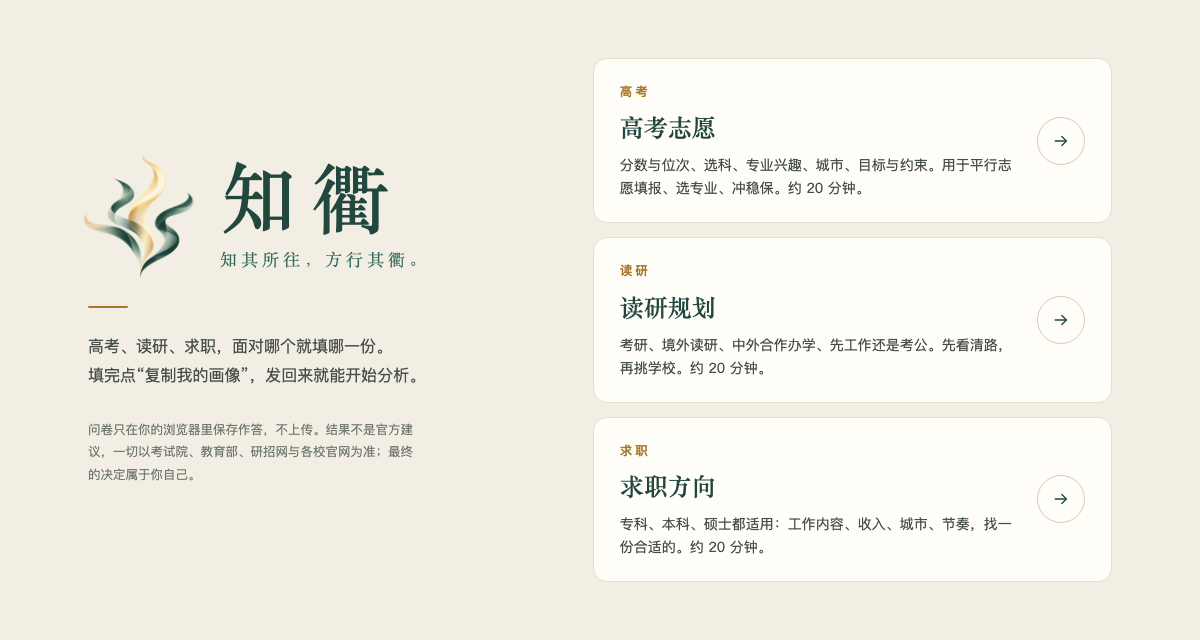
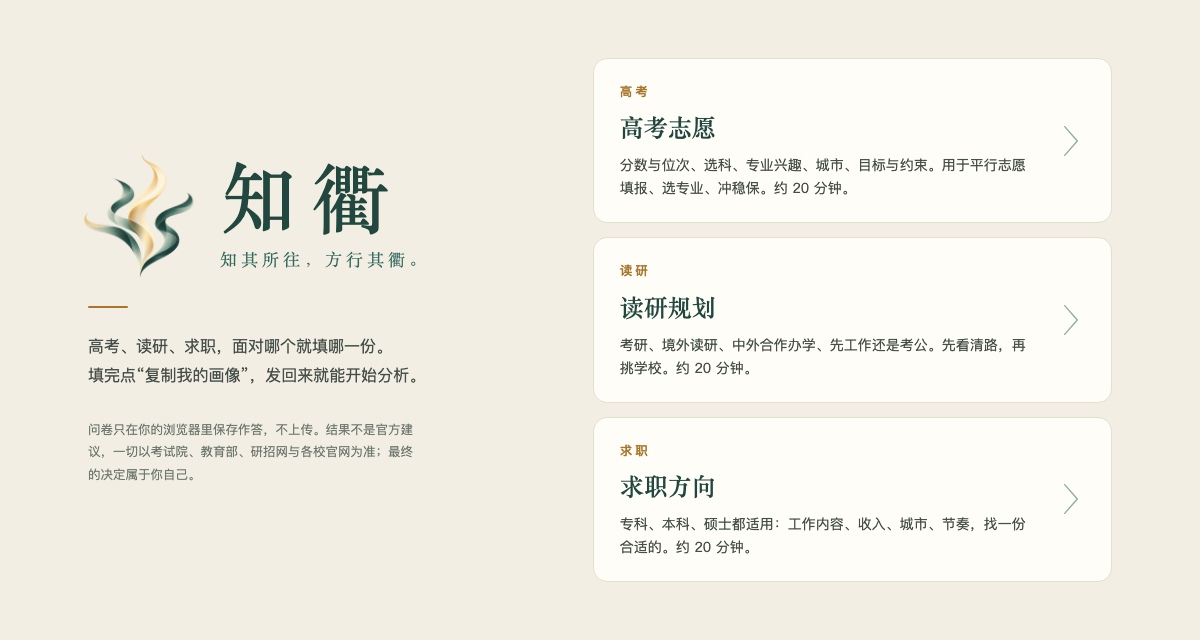
Entry page: thin tall chevron instead of the circled arrow

diff --git a/index.html b/index.html
@@ -5,7 +5,7 @@
 <meta name="viewport" content="width=device-width, initial-scale=1.0">
 <title>知衢 · 升学自我盘点</title>
 <link rel="icon" type="image/png" href="assets/logo-192.png">
-<link rel="stylesheet" href="assets/questionnaire.css?v=20261019k">
+<link rel="stylesheet" href="assets/questionnaire.css?v=20261019l">
 </head>
 <body class="landing">
 
@@ -29,19 +29,19 @@
       <p class="c-eyebrow">高考</p>
       <h2>高考志愿</h2>
       <p>分数与位次、选科、专业兴趣、城市、目标与约束。用于平行志愿填报、选专业、冲稳保。约 20 分钟。</p>
-      <span class="c-go" aria-hidden="true"><svg viewBox="0 0 24 24" width="20" height="20" fill="none" stroke="currentColor" stroke-width="1.6" stroke-linecap="round" stroke-linejoin="round"><path d="M5 12h13"/><path d="M13 6.5 18.5 12 13 17.5"/></svg></span><span class="sr-only">进入问卷</span>
+      <span class="c-go" aria-hidden="true"><svg viewBox="0 0 24 40" width="22" height="36" fill="none" stroke="currentColor" stroke-width="1.5" stroke-linecap="round" stroke-linejoin="round"><path d="M5 4 L19 20 L5 36"/></svg></span><span class="sr-only">进入问卷</span>
     </a>
     <a class="choice" href="grad.html">
       <p class="c-eyebrow">读研</p>
       <h2>读研规划</h2>
       <p>考研、境外读研、中外合作办学、先工作还是考公。先看清路，再挑学校。约 20 分钟。</p>
-      <span class="c-go" aria-hidden="true"><svg viewBox="0 0 24 24" width="20" height="20" fill="none" stroke="currentColor" stroke-width="1.6" stroke-linecap="round" stroke-linejoin="round"><path d="M5 12h13"/><path d="M13 6.5 18.5 12 13 17.5"/></svg></span><span class="sr-only">进入问卷</span>
+      <span class="c-go" aria-hidden="true"><svg viewBox="0 0 24 40" width="22" height="36" fill="none" stroke="currentColor" stroke-width="1.5" stroke-linecap="round" stroke-linejoin="round"><path d="M5 4 L19 20 L5 36"/></svg></span><span class="sr-only">进入问卷</span>
     </a>
     <a class="choice" href="career.html">
       <p class="c-eyebrow">求职</p>
       <h2>求职方向</h2>
       <p>专科、本科、硕士都适用：工作内容、收入、城市、节奏，找一份合适的。约 20 分钟。</p>
-      <span class="c-go" aria-hidden="true"><svg viewBox="0 0 24 24" width="20" height="20" fill="none" stroke="currentColor" stroke-width="1.6" stroke-linecap="round" stroke-linejoin="round"><path d="M5 12h13"/><path d="M13 6.5 18.5 12 13 17.5"/></svg></span><span class="sr-only">进入问卷</span>
+      <span class="c-go" aria-hidden="true"><svg viewBox="0 0 24 40" width="22" height="36" fill="none" stroke="currentColor" stroke-width="1.5" stroke-linecap="round" stroke-linejoin="round"><path d="M5 4 L19 20 L5 36"/></svg></span><span class="sr-only">进入问卷</span>
     </a>
   </div>
   </div>

diff --git a/assets/questionnaire.css b/assets/questionnaire.css
@@ -147,8 +147,9 @@ textarea{resize:vertical;min-height:84px;}
 .choice .c-eyebrow{font-size:12.5px;letter-spacing:3px;font-weight:600;color:var(--amber);margin:0 0 8px;}
 .choice h2{font-family:var(--serif);font-size:25px;margin:0 0 10px;color:var(--green-deep);}
 .choice p{margin:0 0 18px;font-size:14.5px;line-height:1.7;color:var(--ink-soft);flex:1;}
-.choice .c-go{display:flex;align-items:center;justify-content:center;width:48px;height:48px;border-radius:50%;border:1px solid var(--line-strong);color:var(--green-deep);transition:background .15s,color .15s,border-color .15s;}
-.choice:hover .c-go,.choice:focus-visible .c-go{background:var(--green-deep);border-color:var(--green-deep);color:#F2EFE6;}
+.choice .c-go{display:flex;align-items:center;justify-content:center;width:28px;height:44px;color:var(--green);opacity:.55;transition:color .15s,opacity .15s;}
+.choice .c-go svg{width:22px;height:36px;}
+.choice:hover .c-go,.choice:focus-visible .c-go{color:var(--green-deep);opacity:1;}
 .sr-only{position:absolute;width:1px;height:1px;padding:0;margin:-1px;overflow:hidden;clip:rect(0,0,0,0);white-space:nowrap;border:0;}
 
 /* 入口页：左品牌、右问卷，一屏居中；手机上下排列，可滚动 */
@@ -179,7 +180,7 @@ textarea{resize:vertical;min-height:84px;}
   .landing .vow{font-size:13.5px;}
   .landing .choices{gap:18px;}
   .landing .choice{padding:30px 34px;}
-  .landing .choice .c-go{width:54px;height:54px;}
+  .landing .choice .c-go svg{width:26px;height:42px;}
   .landing .choice h2{font-size:28px;}
   .landing .choice p:not(.c-eyebrow){font-size:15.5px;}
 }
@@ -200,7 +201,7 @@ textarea{resize:vertical;min-height:84px;}
   .landing .brand-title{font-size:46px;letter-spacing:10px;padding-left:0;}
   .landing .hero .tag{font-size:15px;}
   .landing .choice{grid-template-columns:1fr auto;grid-template-areas:"eb go" "h2 go" "p p";padding:20px;}
-  .landing .choice .c-go{width:42px;height:42px;}
+  .landing .choice .c-go svg{width:18px;height:30px;}
 }
 @media (max-width:560px){
   body{font-size:15.5px;}

diff --git a/gaokao.html b/gaokao.html
@@ -6,7 +6,7 @@
 <title>高考志愿 · 自我盘点</title>
 <script src="https://cdn.jsdelivr.net/npm/lunar-javascript@1.7.7/lunar.js" defer></script>
 <link rel="icon" type="image/png" href="assets/logo-192.png">
-<link rel="stylesheet" href="assets/questionnaire.css?v=20261019k">
+<link rel="stylesheet" href="assets/questionnaire.css?v=20261019l">
 </head>
 <body data-profile-kind="gaokao">
 
@@ -907,8 +907,8 @@
   </div>
 </div>
 
-<script src="assets/profile-recipient.js?v=20261019k"></script>
-<script src="assets/questionnaire.js?v=20261019k"></script>
+<script src="assets/profile-recipient.js?v=20261019l"></script>
+<script src="assets/questionnaire.js?v=20261019l"></script>
 <script>
   function updateBaziPreview(){
     var el=document.getElementById('baziPreview'); if(!el) return;

diff --git a/career.html b/career.html
@@ -6,7 +6,7 @@
 <title>求职 · 自我盘点</title>
 <script src="https://cdn.jsdelivr.net/npm/lunar-javascript@1.7.7/lunar.js" defer></script>
 <link rel="icon" type="image/png" href="assets/logo-192.png">
-<link rel="stylesheet" href="assets/questionnaire.css?v=20261019k">
+<link rel="stylesheet" href="assets/questionnaire.css?v=20261019l">
 </head>
 <body data-profile-kind="career">
 
@@ -818,8 +818,8 @@
   </div>
 </div>
 
-<script src="assets/profile-recipient.js?v=20261019k"></script>
-<script src="assets/questionnaire.js?v=20261019k"></script>
+<script src="assets/profile-recipient.js?v=20261019l"></script>
+<script src="assets/questionnaire.js?v=20261019l"></script>
 <script>
   function updateBaziPreview(){
     var el=document.getElementById('baziPreview'); if(!el) return;

diff --git a/grad.html b/grad.html
@@ -6,7 +6,7 @@
 <title>读研 · 自我盘点</title>
 <script src="https://cdn.jsdelivr.net/npm/lunar-javascript@1.7.7/lunar.js" defer></script>
 <link rel="icon" type="image/png" href="assets/logo-192.png">
-<link rel="stylesheet" href="assets/questionnaire.css?v=20261019k">
+<link rel="stylesheet" href="assets/questionnaire.css?v=20261019l">
 </head>
 <body data-profile-kind="grad">
 
@@ -899,8 +899,8 @@
   </div>
 </div>
 
-<script src="assets/profile-recipient.js?v=20261019k"></script>
-<script src="assets/questionnaire.js?v=20261019k"></script>
+<script src="assets/profile-recipient.js?v=20261019l"></script>
+<script src="assets/questionnaire.js?v=20261019l"></script>
 <script>
   function updateBaziPreview(){
     var el=document.getElementById('baziPreview'); if(!el) return;
